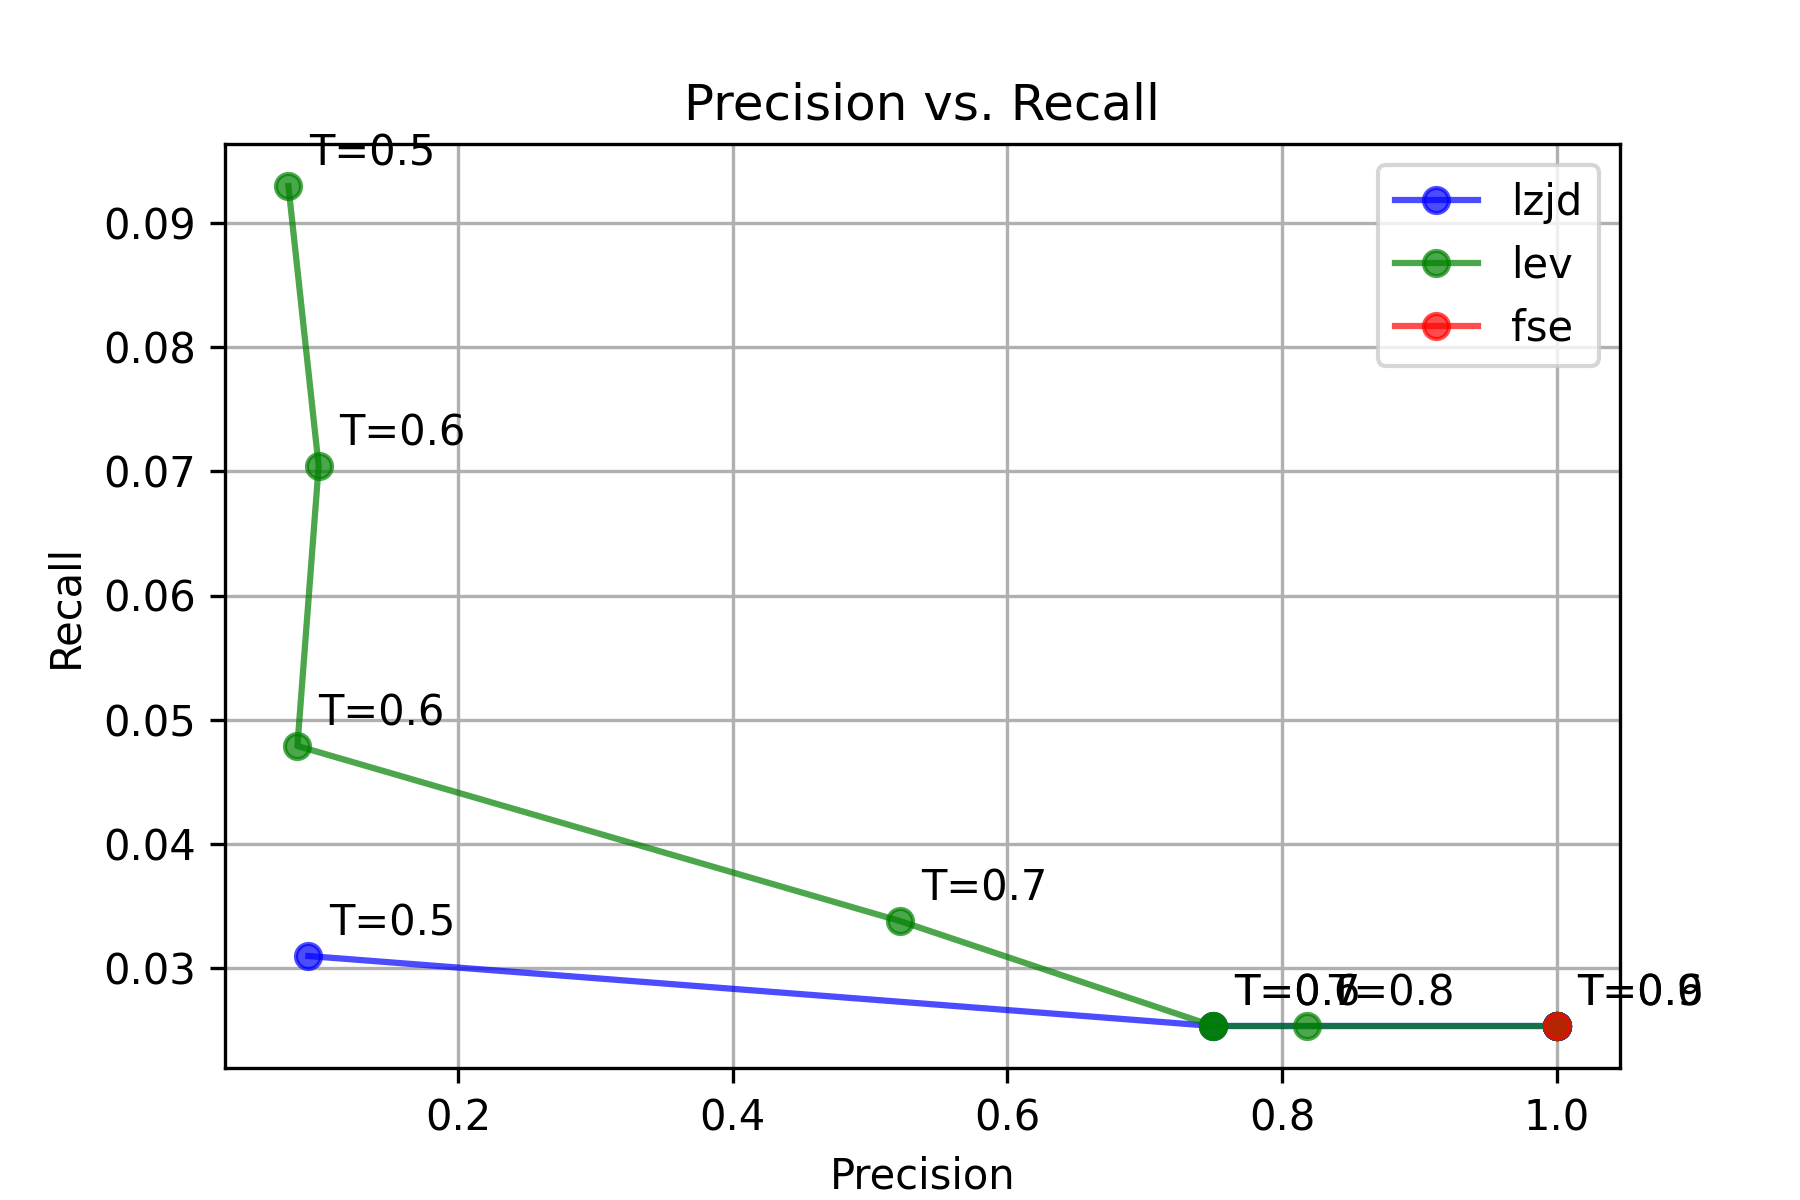
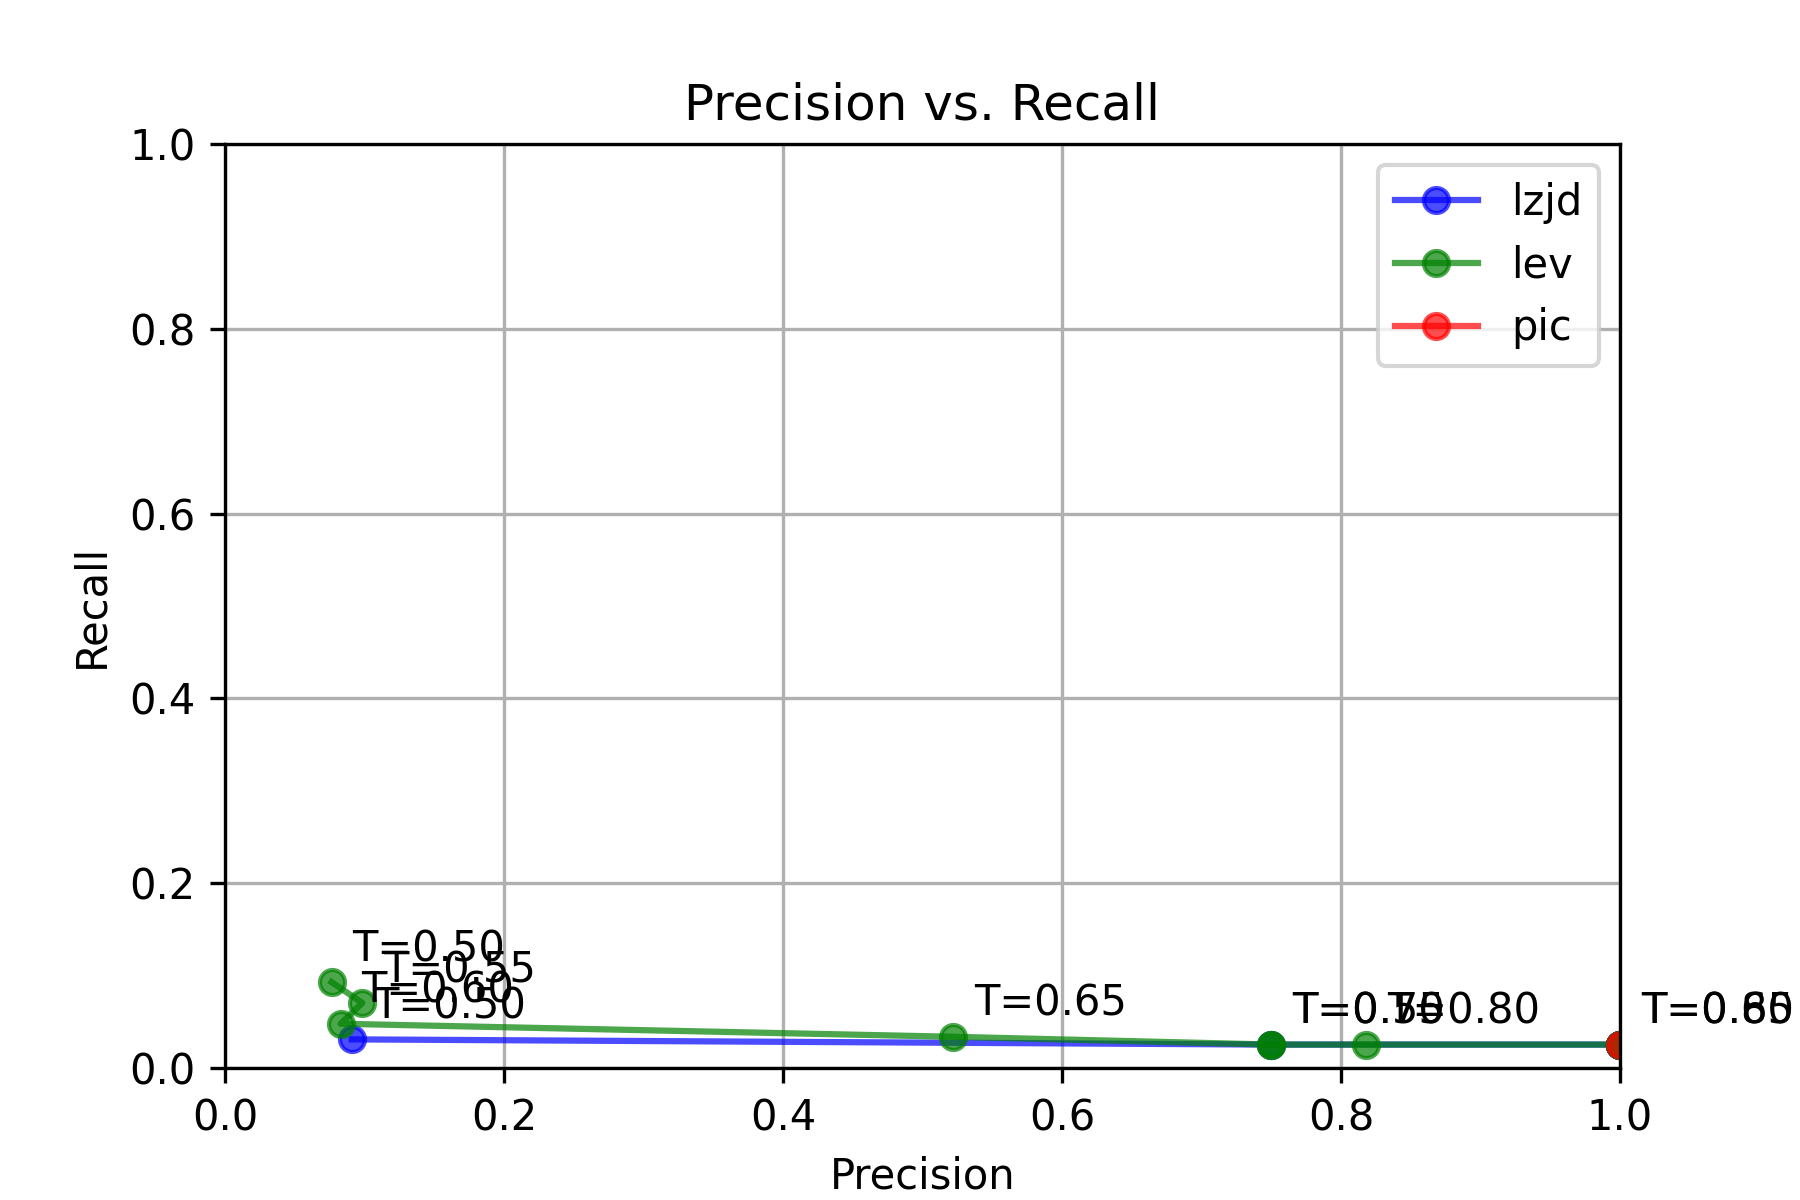
plot updates

diff --git a/lzjd-script.py b/lzjd-script.py
@@ -219,7 +219,7 @@ def summarize_confusion(m):
 
 fsecm = sklearn.metrics.confusion_matrix(y_true, y_predfse, labels=[True, False])
 fsesum = summarize_confusion(fsecm)
-fsesum.update({"technique": "fse"})
+fsesum.update({"technique": "pic"})
 print(f"FSE\n{fsecm}\n{fsesum}")
 
 threshold_range = list(np.arange(0.5,1.01,0.05))
